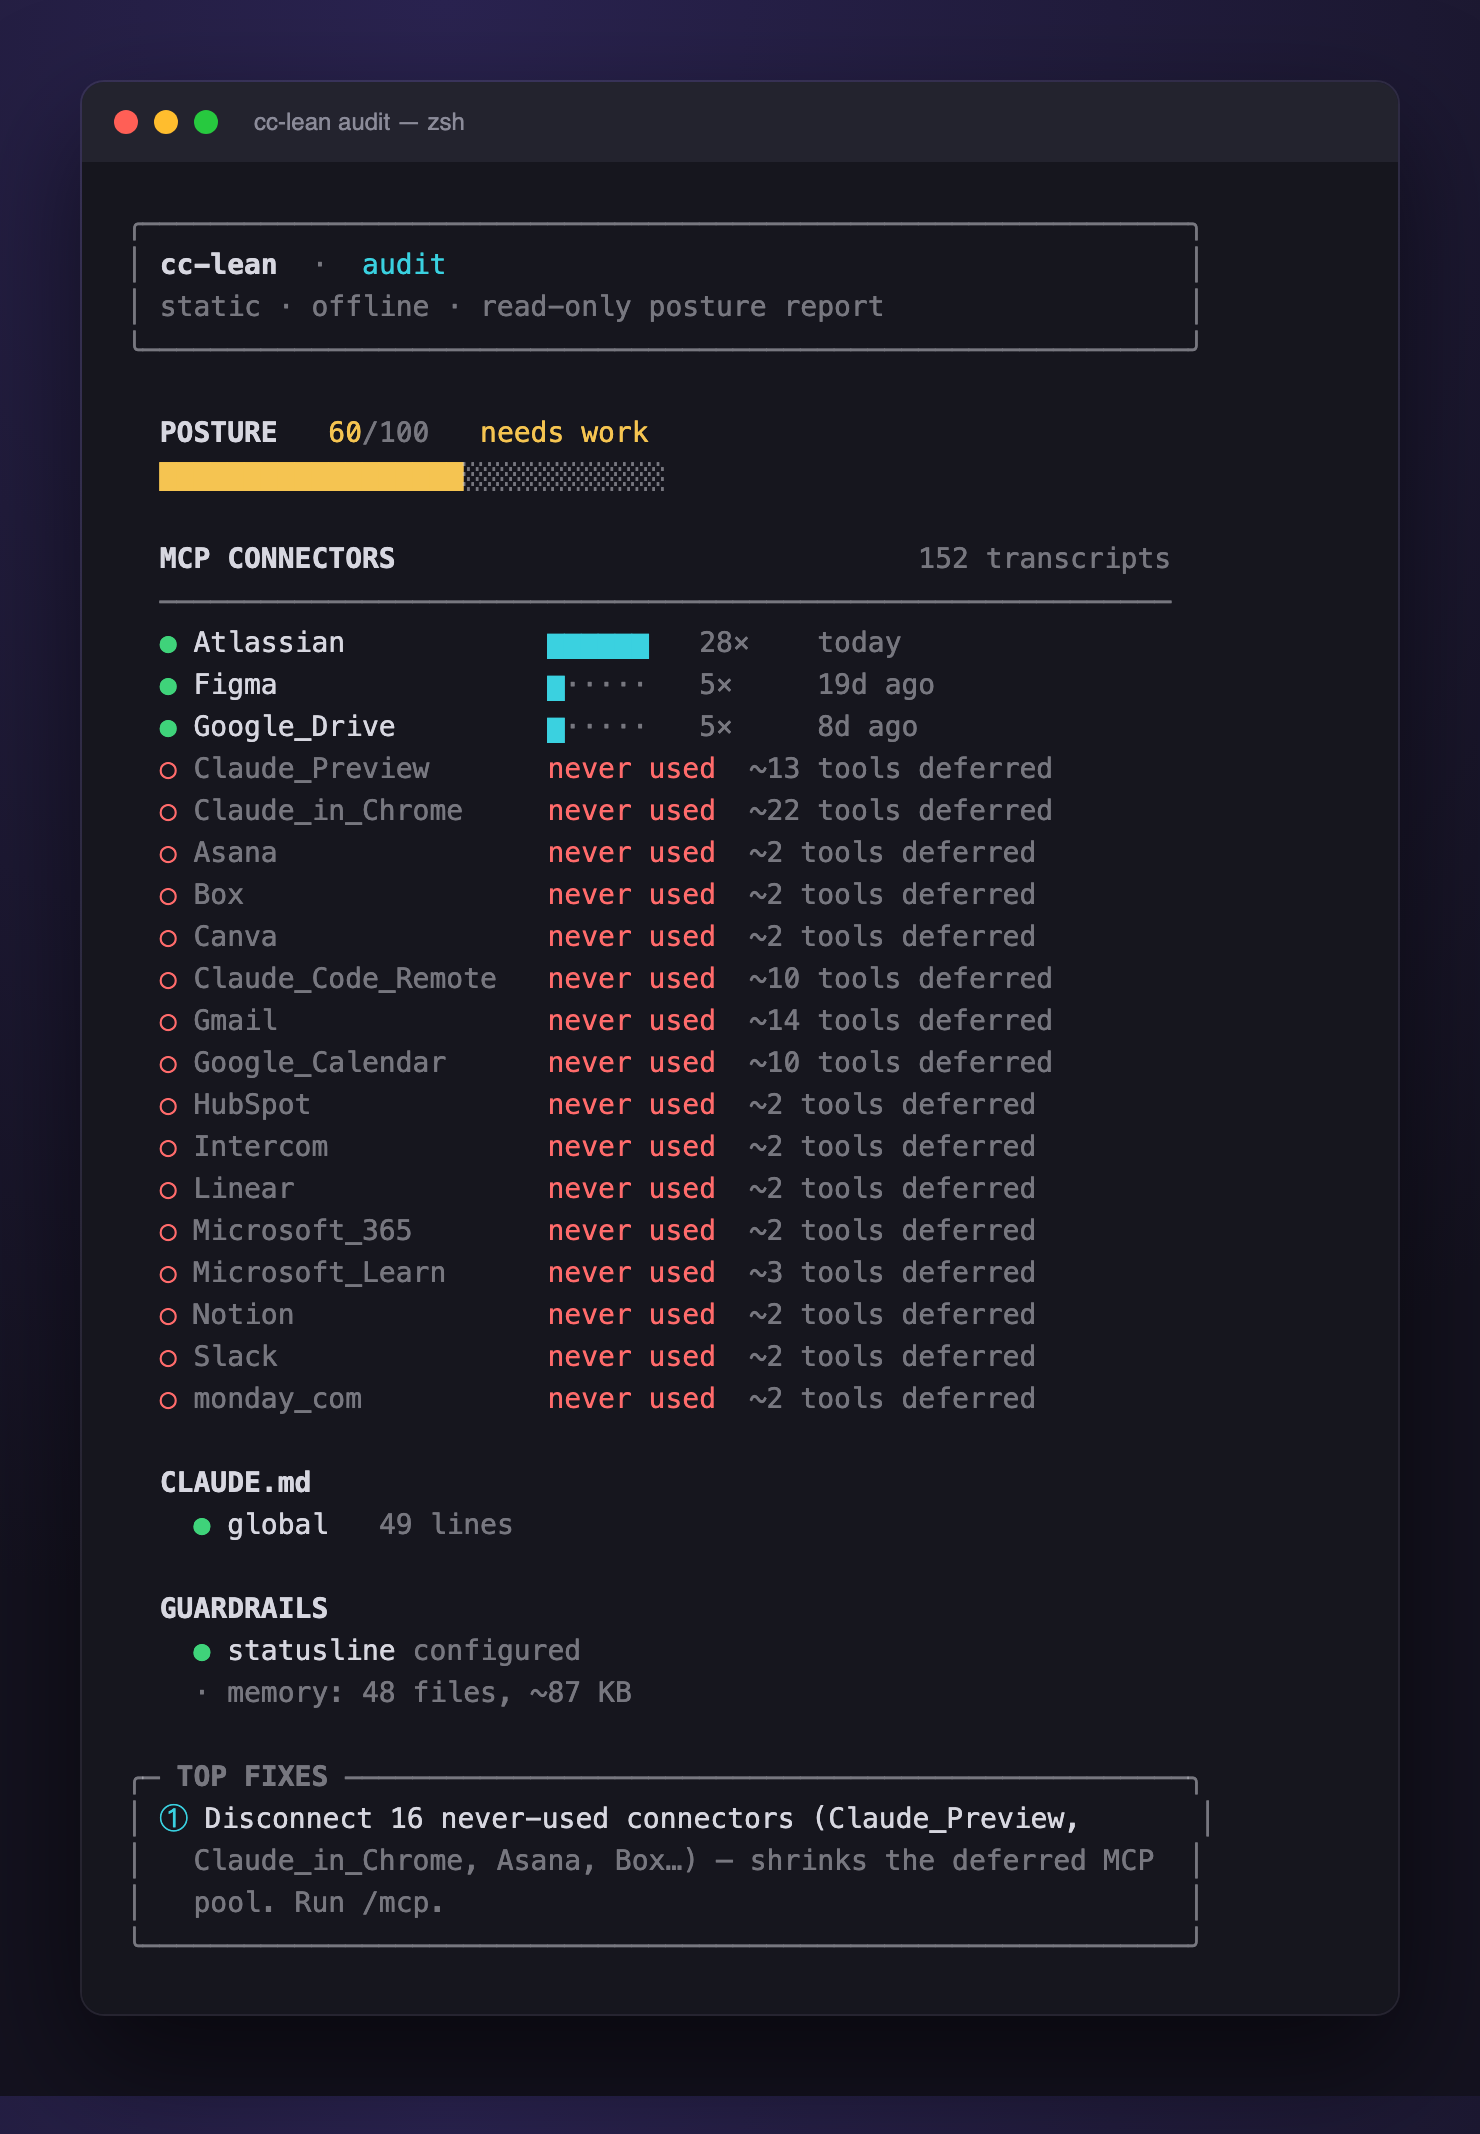
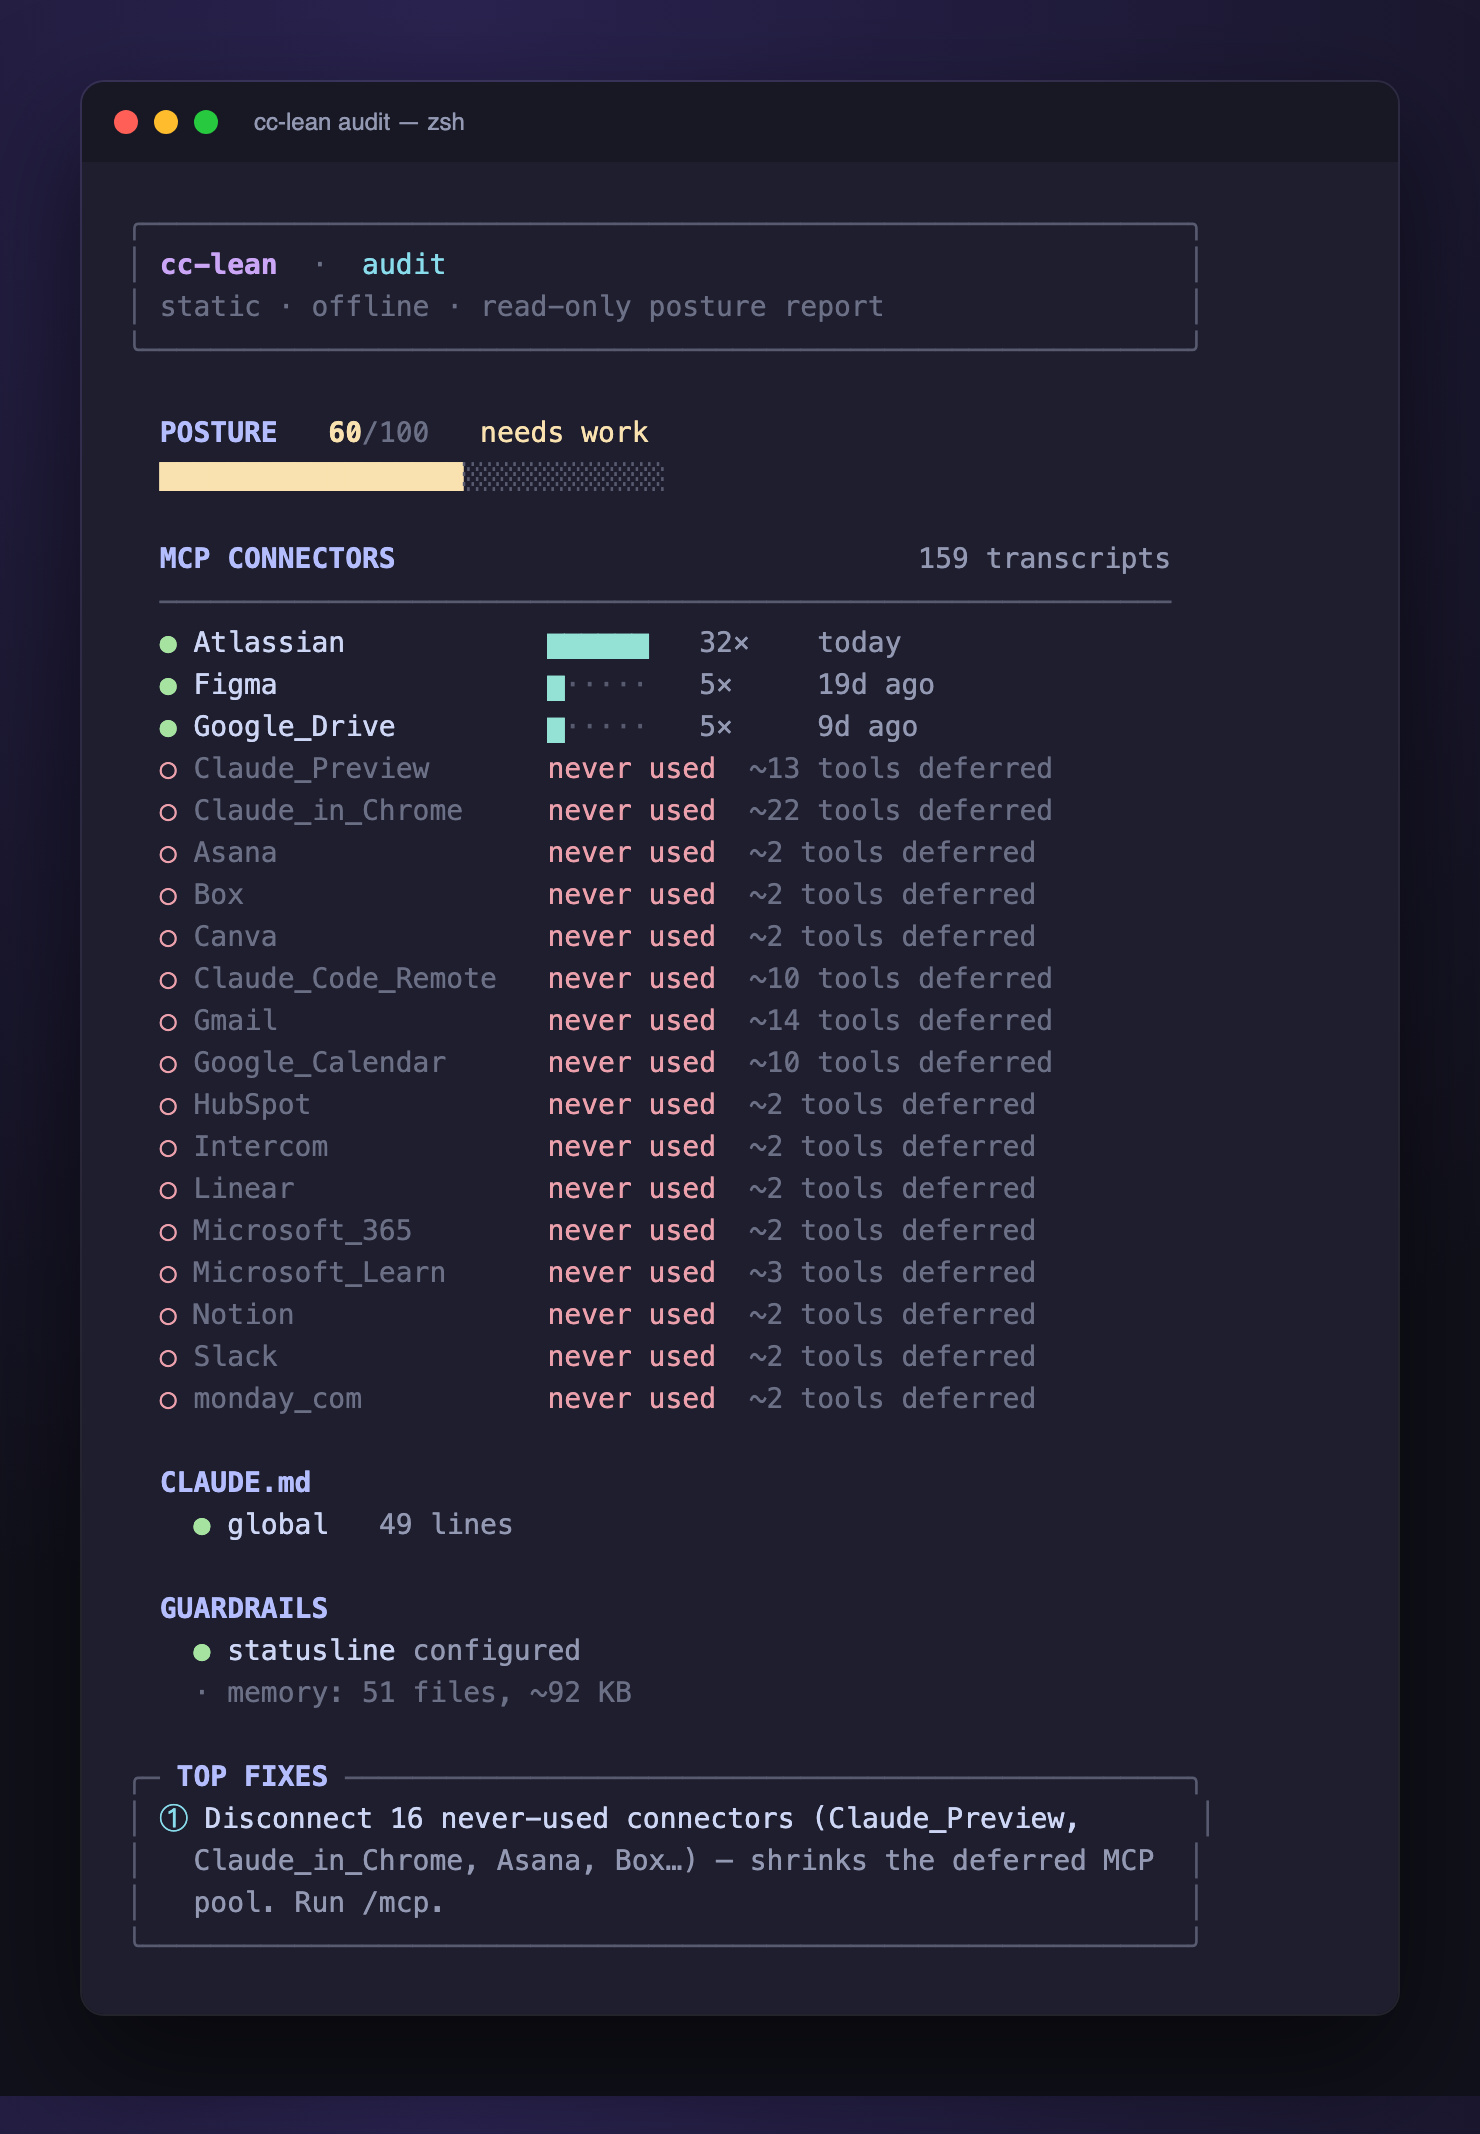
feat: modern truecolor theme for audit output
Catppuccin Mocha palette (util.js) with a basic-16 fallback for terminals
without 24-bit colour, and per-element hues in render.js (mauve title, teal
sparks, lavender section headers, coral for unused connectors). Update the
screenshot generator's ANSI->HTML parser for truecolor and regenerate the
README image. Bump to 0.3.0.

diff --git a/src/render.js b/src/render.js
@@ -7,6 +7,7 @@ import { c, vlen, padEnd, padStart, wrapText } from './util.js';
 const W = 60; // inner text width of framed blocks
 
 const line = (n = W + 2) => '─'.repeat(n);
+const heading = (s) => c.lavender(c.bold(s));
 const scoreLabel = (s) => (s >= 80 ? 'lean & clean' : s >= 50 ? 'needs work' : 'heavy');
 const scoreColor = (s) => (s >= 80 ? c.green : s >= 50 ? c.yellow : c.red);
 
@@ -15,25 +16,25 @@ function box(title, rows) {
   const out = [];
   if (title) {
     const head = `─ ${title} `;
-    out.push(c.dim('╭') + c.dim(head) + c.dim(line(W + 2 - vlen(head))) + c.dim('╮'));
+    out.push(c.overlay('╭') + c.overlay(head) + c.overlay(line(W + 2 - vlen(head))) + c.overlay('╮'));
   } else {
-    out.push(c.dim(`╭${line()}╮`));
+    out.push(c.overlay(`╭${line()}╮`));
   }
-  for (const r of rows) out.push(`${c.dim('│')} ${padEnd(r, W)} ${c.dim('│')}`);
-  out.push(c.dim(`╰${line()}╯`));
+  for (const r of rows) out.push(`${c.overlay('│')} ${padEnd(r, W)} ${c.overlay('│')}`);
+  out.push(c.overlay(`╰${line()}╯`));
   return out;
 }
 
 /** Horizontal meter: filled/empty cells over `width`, coloured by `color`. */
 function meter(pct, width, color) {
   const filled = Math.max(0, Math.min(width, Math.round((pct / 100) * width)));
-  return color('█'.repeat(filled)) + c.dim('░'.repeat(width - filled));
+  return color('█'.repeat(filled)) + c.overlay('░'.repeat(width - filled));
 }
 
 /** Tiny proportional bar for connector usage counts. */
 function spark(count, max, width = 6) {
   const cells = max > 0 ? Math.max(1, Math.round((count / max) * width)) : 0;
-  return c.cyan('▇'.repeat(cells)) + c.dim('·'.repeat(width - cells));
+  return c.teal('▇'.repeat(cells)) + c.overlay('·'.repeat(width - cells));
 }
 
 export function renderReport(d) {
@@ -43,68 +44,68 @@ export function renderReport(d) {
   // Header banner.
   push('');
   push(...box(null, [
-    `${c.bold('cc-lean')}  ${c.dim('·')}  ${c.cyan('audit')}`,
-    c.dim('static · offline · read-only posture report'),
+    `${c.mauve(c.bold('cc-lean'))}  ${c.muted('·')}  ${c.sky('audit')}`,
+    c.muted('static · offline · read-only posture report'),
   ]));
   push('');
 
   // Score gauge.
   const sc = scoreColor(d.score);
-  push(`  ${c.bold('POSTURE')}   ${sc(`${d.score}`)}${c.dim('/100')}   ${sc(scoreLabel(d.score))}`);
+  push(`  ${heading('POSTURE')}   ${sc(c.bold(`${d.score}`))}${c.muted('/100')}   ${sc(scoreLabel(d.score))}`);
   push(`  ${meter(d.score, 30, sc)}`);
   push('');
 
   // Connectors.
   const { active, unused } = d.connectors;
-  push(`  ${c.bold('MCP CONNECTORS')}${padStart(c.dim(`${d.files} transcripts`), W - 14)}`);
-  push(`  ${c.dim(line(W))}`);
+  push(`  ${heading('MCP CONNECTORS')}${padStart(c.subtext(`${d.files} transcripts`), W - 14)}`);
+  push(`  ${c.overlay(line(W))}`);
   if (active.length === 0 && unused.length === 0) {
-    push(`  ${c.dim('none found in your history')}`);
+    push(`  ${c.muted('none found in your history')}`);
   } else {
     const max = Math.max(1, ...active.map((a) => a.count));
     for (const a of active) {
-      const name = padEnd(c.green('●') + ' ' + a.name, 22);
+      const name = padEnd(`${c.green('●')} ${c.text(a.name)}`, 22);
       const bar = padEnd(spark(a.count, max), 8);
-      const stat = padEnd(c.dim(`${a.count}×`), 6);
-      push(`  ${name} ${bar} ${stat} ${c.dim(a.last)}`);
+      const stat = padEnd(c.subtext(`${a.count}×`), 6);
+      push(`  ${name} ${bar} ${stat} ${c.subtext(a.last)}`);
     }
     for (const u of unused) {
-      const name = padEnd(c.red('○') + ' ' + c.dim(u.name), 22);
-      push(`  ${name} ${c.red('never used')}  ${c.dim(`~${u.tools} tools deferred`)}`);
+      const name = padEnd(`${c.maroon('○')} ${c.muted(u.name)}`, 22);
+      push(`  ${name} ${c.maroon('never used')}  ${c.muted(`~${u.tools} tools deferred`)}`);
     }
   }
   push('');
 
   // CLAUDE.md + guardrails.
-  push(`  ${c.bold('CLAUDE.md')}`);
+  push(`  ${heading('CLAUDE.md')}`);
   for (const m of d.claudeMd) {
     const ok = !m.over;
-    push(`    ${ok ? c.green('●') : c.yellow('▲')} ${padEnd(m.scope, 8)} ${
-      ok ? c.dim(`${m.lines} lines`) : c.yellow(`${m.lines} lines — over 200`)
+    push(`    ${ok ? c.green('●') : c.peach('▲')} ${c.text(padEnd(m.scope, 8))} ${
+      ok ? c.subtext(`${m.lines} lines`) : c.peach(`${m.lines} lines — over 200`)
     }`);
   }
-  if (d.claudeMd.length === 0) push(`    ${c.dim('none found')}`);
+  if (d.claudeMd.length === 0) push(`    ${c.muted('none found')}`);
   push('');
-  push(`  ${c.bold('GUARDRAILS')}`);
-  push(`    ${d.statusline ? c.green('●') : c.yellow('▲')} statusline ${
-    d.statusline ? c.dim('configured') : c.yellow('not configured')
+  push(`  ${heading('GUARDRAILS')}`);
+  push(`    ${d.statusline ? c.green('●') : c.peach('▲')} ${c.text('statusline')} ${
+    d.statusline ? c.subtext('configured') : c.peach('not configured')
   }`);
-  push(`    ${c.dim('·')} ${c.dim(`memory: ${d.memory.files} files, ~${d.memory.kb} KB`)}`);
+  push(`    ${c.muted('·')} ${c.muted(`memory: ${d.memory.files} files, ~${d.memory.kb} KB`)}`);
   push('');
 
   // Top fixes.
   if (d.fixes.length === 0) {
-    push(...box('ALL CLEAR', [c.green('Lean and clean — nothing to fix. 🌱')]));
+    push(...box(heading('ALL CLEAR'), [c.green('Lean and clean — nothing to fix. 🌱')]));
   } else {
     const marks = ['①', '②', '③'];
     const rows = [];
     d.fixes.slice(0, 3).forEach((f, i) => {
       const wrapped = wrapText(f.text, W - 2);
       wrapped.forEach((w, j) => {
-        rows.push(j === 0 ? `${c.cyan(marks[i])} ${w}` : `  ${c.dim(w)}`);
+        rows.push(j === 0 ? `${c.sky(marks[i])} ${c.text(w)}` : `  ${c.subtext(w)}`);
       });
     });
-    push(...box(c.bold('TOP FIXES'), rows));
+    push(...box(heading('TOP FIXES'), rows));
   }
   push('');
 

diff --git a/src/util.js b/src/util.js
@@ -15,14 +15,36 @@ export const CLAUDE_MD_MAX_LINES = 200;
 // Colour when attached to a TTY, or when FORCE_COLOR is set (so piped captures —
 // e.g. rendering the audit to a screenshot — keep their ANSI). NO_COLOR wins.
 const useColor = (Boolean(process.env.FORCE_COLOR) || process.stdout.isTTY) && !process.env.NO_COLOR;
-const wrap = (code) => (s) => (useColor ? `\x1b[${code}m${s}\x1b[0m` : String(s));
+// Truecolor when the terminal advertises it (or colour is forced, e.g. for the
+// screenshot capture); otherwise fall back to the basic 16-colour code so the
+// output still looks reasonable on terminals without 24-bit support.
+const truecolor = useColor && (Boolean(process.env.FORCE_COLOR) || /truecolor|24bit/.test(process.env.COLORTERM || ''));
+const rgb = (hex, fallback) => {
+  if (!truecolor) return fallback;
+  const n = parseInt(hex.slice(1), 16);
+  return `38;2;${(n >> 16) & 255};${(n >> 8) & 255};${n & 255}`;
+};
+const wrap = (code) => (s) => (useColor && code ? `\x1b[${code}m${s}\x1b[0m` : String(s));
+
+// Palette — Catppuccin Mocha, each with a basic-16 fallback. `text` is left
+// unstyled (empty code) so it renders as the terminal's default foreground.
 export const c = {
-  red: wrap('31'),
-  yellow: wrap('33'),
-  green: wrap('32'),
-  cyan: wrap('36'),
-  dim: wrap('2'),
   bold: wrap('1'),
+  dim: wrap('2'),
+  text: wrap(rgb('#cdd6f4', '')),
+  subtext: wrap(rgb('#9399b2', '2')),
+  muted: wrap(rgb('#6c7086', '2')),
+  overlay: wrap(rgb('#585b70', '2')),
+  mauve: wrap(rgb('#cba6f7', '35')),
+  lavender: wrap(rgb('#b4befe', '36')),
+  sky: wrap(rgb('#89dceb', '36')),
+  teal: wrap(rgb('#94e2d5', '36')),
+  green: wrap(rgb('#a6e3a1', '32')),
+  yellow: wrap(rgb('#f9e2af', '33')),
+  peach: wrap(rgb('#fab387', '33')),
+  maroon: wrap(rgb('#eba0ac', '31')),
+  red: wrap(rgb('#f38ba8', '31')),
+  cyan: wrap(rgb('#89dceb', '36')),
 };
 
 // Visible-width helpers — measure/pad strings ignoring ANSI colour codes, so